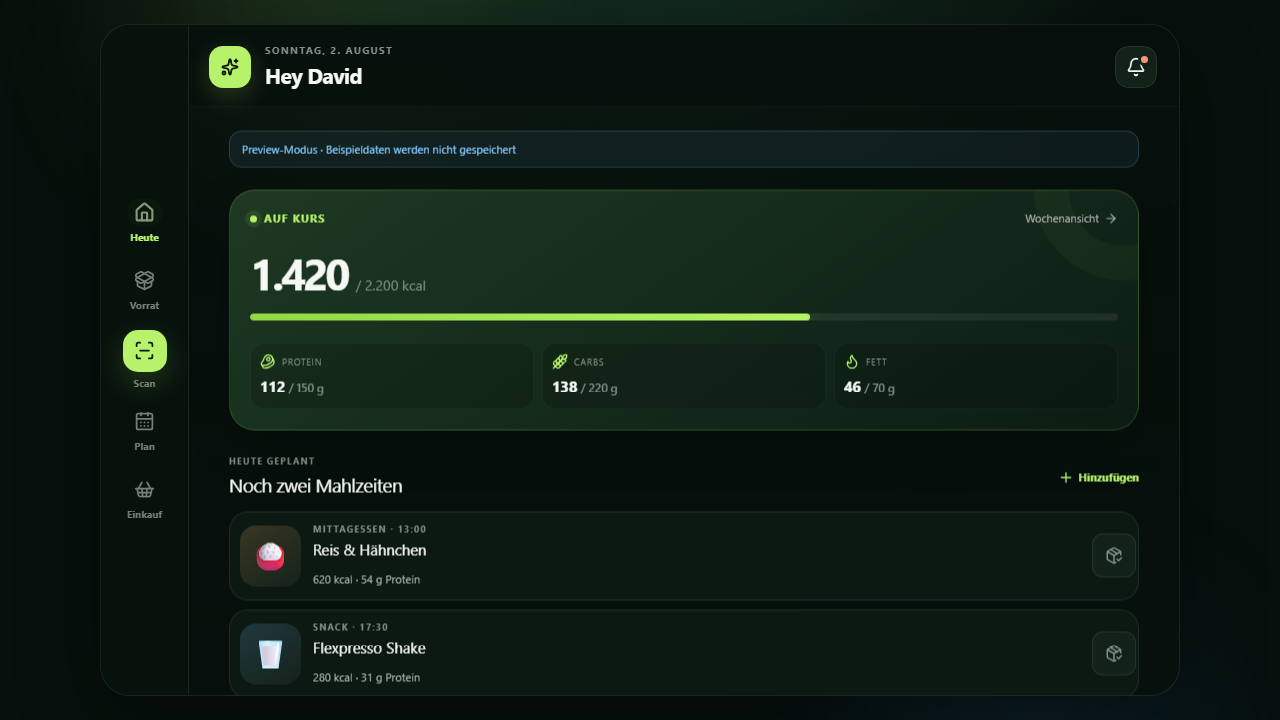
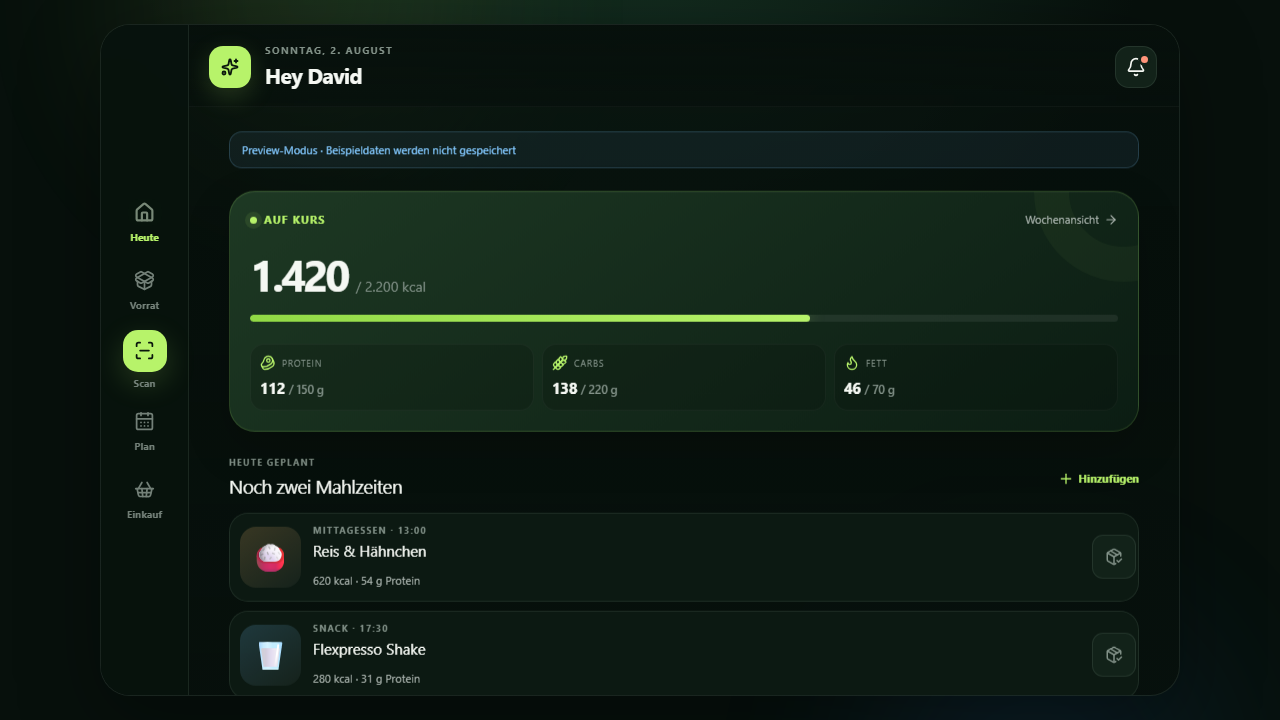
feat: add aal2 data export

diff --git a/src/app/api/account/export/route.ts b/src/app/api/account/export/route.ts
@@ -1,0 +1,99 @@
+import { createSupabaseServerClient } from "@/lib/supabase/server";
+
+export const runtime = "nodejs";
+export const dynamic = "force-dynamic";
+
+const MAX_EXPORT_BYTES = 10 * 1024 * 1024;
+
+interface QueryResult<T> {
+  data: T[] | null;
+  error: { message: string } | null;
+}
+
+async function requiredRows<T>(query: PromiseLike<QueryResult<T>>, label: string): Promise<T[]> {
+  const result = await query;
+  if (result.error) throw new Error(`${label}_query_failed`);
+  return result.data ?? [];
+}
+
+function noStoreJson(body: unknown, status: number): Response {
+  return Response.json(body, {
+    status,
+    headers: { "Cache-Control": "no-store, max-age=0", Pragma: "no-cache" }
+  });
+}
+
+export async function GET(): Promise<Response> {
+  let supabase;
+  try {
+    supabase = await createSupabaseServerClient();
+  } catch {
+    return noStoreJson({ error: "SERVICE_UNAVAILABLE" }, 503);
+  }
+  const [userResult, claimsResult] = await Promise.all([
+    supabase.auth.getUser(),
+    supabase.auth.getClaims()
+  ]);
+  if (userResult.error || !userResult.data.user) return noStoreJson({ error: "AUTHENTICATION_REQUIRED" }, 401);
+  if (claimsResult.error || claimsResult.data?.claims.aal !== "aal2") return noStoreJson({ error: "AAL2_REQUIRED" }, 403);
+
+  const user = userResult.data.user;
+  try {
+    const [profiles, memberships, foodRiskProfiles, foodLogEntries] = await Promise.all([
+      requiredRows(supabase.from("profiles").select("user_id, display_name, locale, timezone, week_starts_on, calorie_target, protein_target_g, calorie_carryover_percent, created_at, updated_at").eq("user_id", user.id), "profiles"),
+      requiredRows(supabase.from("household_members").select("household_id, role, joined_at").eq("user_id", user.id), "memberships"),
+      requiredRows(supabase.from("user_food_risk_profiles").select("id, canonical_key, kind, severity, confirmed_at, created_at").eq("user_id", user.id), "food_risk_profiles"),
+      requiredRows(supabase.from("food_log_entries").select("id, household_id, product_id, batch_id, amount, unit, nutrition_snapshot, eaten_at, client_mutation_id, created_at").eq("user_id", user.id), "food_log_entries")
+    ]);
+    const householdIds = memberships.map((membership) => String(membership.household_id));
+    const [households, products, inventoryBatches, inventoryEvents, recipes, mealPlanSlots, shoppingLists] = householdIds.length ? await Promise.all([
+      requiredRows(supabase.from("households").select("id, name, currency, created_at, updated_at").in("id", householdIds), "households"),
+      requiredRows(supabase.from("products").select("id, household_id, gtin, name, brand, generic_name, package_amount, package_unit, image_url, ingredients_text, source, source_updated_at, data_confidence, user_verified_at, created_at, updated_at").in("household_id", householdIds), "products"),
+      requiredRows(supabase.from("inventory_batches").select("id, household_id, product_id, location, initial_amount, remaining_amount, unit, best_before_date, use_by_date, production_date, frozen_date, opened_at, after_opening_deadline, lot_number, serial_number, purchase_price_cents, purchased_at, date_source, date_confidence, created_at, updated_at").in("household_id", householdIds), "inventory_batches"),
+      requiredRows(supabase.from("inventory_events").select("id, household_id, batch_id, event_type, amount_delta, client_mutation_id, note, occurred_at").eq("user_id", user.id).in("household_id", householdIds), "inventory_events"),
+      requiredRows(supabase.from("recipes").select("id, household_id, name, servings, instructions, is_favorite, created_at, updated_at").in("household_id", householdIds), "recipes"),
+      requiredRows(supabase.from("meal_plan_slots").select("id, household_id, user_id, planned_for, meal_type, recipe_id, product_id, servings, status, sort_order, created_at").eq("user_id", user.id).in("household_id", householdIds), "meal_plan_slots"),
+      requiredRows(supabase.from("shopping_lists").select("id, household_id, week_start, status, predicted_total_cents, created_at, updated_at").in("household_id", householdIds), "shopping_lists")
+    ]) : [[], [], [], [], [], [], []];
+
+    const productIds = products.map((product) => String(product.id));
+    const recipeIds = recipes.map((recipe) => String(recipe.id));
+    const shoppingListIds = shoppingLists.map((list) => String(list.id));
+    const [productNutrition, productMetadata, productIngredients, ingredientAssessments, recipeItems, shoppingItems] = await Promise.all([
+      productIds.length ? requiredRows(supabase.from("product_nutrition").select("product_id, basis_amount, basis_unit, energy_kcal, protein_g, carbohydrates_g, sugars_g, fat_g, saturated_fat_g, fiber_g, salt_g, micronutrients, source, confidence, updated_at").in("product_id", productIds), "product_nutrition") : [],
+      productIds.length ? requiredRows(supabase.from("product_metadata").select("id, product_id, field_key, value_json, source, source_updated_at, confidence, user_verified_at").in("product_id", productIds), "product_metadata") : [],
+      productIds.length ? requiredRows(supabase.from("product_ingredients").select("id, product_id, position, raw_name, normalized_name, e_number, percentage, is_allergen, is_trace, confidence").in("product_id", productIds), "product_ingredients") : [],
+      productIds.length ? requiredRows(supabase.from("ingredient_assessments").select("id, product_id, ingredient_key, level, reason, evidence_url, exposure, confidence, ruleset_version, assessed_at").eq("user_id", user.id).in("product_id", productIds), "ingredient_assessments") : [],
+      recipeIds.length ? requiredRows(supabase.from("recipe_items").select("id, recipe_id, product_id, amount, unit").in("recipe_id", recipeIds), "recipe_items") : [],
+      shoppingListIds.length ? requiredRows(supabase.from("shopping_items").select("id, shopping_list_id, product_id, label, required_amount, unit, package_count, predicted_price_cents, checked_at, source, source_product_id, created_at").in("shopping_list_id", shoppingListIds), "shopping_items") : []
+    ]);
+
+    const exportedAt = new Date().toISOString();
+    const payload = JSON.stringify({
+      exportVersion: 1,
+      exportedAt,
+      identity: { id: user.id, email: user.email ?? null, createdAt: user.created_at, lastSignInAt: user.last_sign_in_at ?? null },
+      data: {
+        profiles, memberships, households, foodRiskProfiles, products, productNutrition,
+        productMetadata, productIngredients, ingredientAssessments, inventoryBatches,
+        inventoryEvents, foodLogEntries, recipes, recipeItems, mealPlanSlots,
+        shoppingLists, shoppingItems
+      }
+    });
+    if (Buffer.byteLength(payload, "utf8") > MAX_EXPORT_BYTES) {
+      return noStoreJson({ error: "EXPORT_TOO_LARGE", message: "Der direkte Export überschreitet 10 MB. Bitte fordere einen sicheren Support-Export an." }, 413);
+    }
+    return new Response(payload, {
+      status: 200,
+      headers: {
+        "Content-Type": "application/json; charset=utf-8",
+        "Content-Disposition": `attachment; filename="foodos-export-${exportedAt.slice(0, 10)}.json"`,
+        "Cache-Control": "no-store, max-age=0",
+        Pragma: "no-cache",
+        "X-Content-Type-Options": "nosniff"
+      }
+    });
+  } catch {
+    return noStoreJson({ error: "EXPORT_FAILED" }, 500);
+  }
+}

diff --git a/e2e-auth/authenticated-core.spec.ts b/e2e-auth/authenticated-core.spec.ts
@@ -23,6 +23,9 @@ test("real local user must enroll TOTP before atomic household onboarding", asyn
   const password = "FoodOS-E2E-Only-2026!";
 
   await page.goto("/");
+  const deniedExport = await page.request.get("/api/account/export");
+  expect(deniedExport.status()).toBe(401);
+  expect(deniedExport.headers()["cache-control"]).toContain("no-store");
   await page.getByRole("tab", { name: "Registrieren" }).click();
   await page.getByLabel("E-Mail-Adresse").fill(email);
   await page.getByLabel("Passwort").fill(password);
@@ -85,4 +88,15 @@ test("real local user must enroll TOTP before atomic household onboarding", asyn
   await expect(page.getByText(/Offline · auf diesem Gerät gespeichert/)).not.toBeVisible({ timeout: 15_000 });
   await page.getByRole("button", { name: "Vorrat", exact: true }).click();
   await expect(page.getByText(/Nutella/i).first()).toBeVisible();
+
+  const exportResponse = await page.request.get("/api/account/export");
+  expect(exportResponse.status()).toBe(200);
+  expect(exportResponse.headers()["cache-control"]).toContain("no-store");
+  expect(exportResponse.headers()["content-disposition"]).toContain("attachment");
+  const exportPayload = await exportResponse.json();
+  expect(exportPayload.exportVersion).toBe(1);
+  expect(exportPayload.identity.email).toBe(email);
+  expect(exportPayload.data.households).toHaveLength(1);
+  expect(exportPayload.data.inventoryBatches).toHaveLength(1);
+  expect(exportPayload.data.products[0].name).toMatch(/Nutella/i);
 });

diff --git a/src/components/food-os-app.tsx b/src/components/food-os-app.tsx
@@ -4,6 +4,7 @@ import { useMemo, useState } from "react";
 import { useRouter } from "next/navigation";
 import { Bell, CalendarDays, Home, PackageOpen, ScanLine, ShoppingBasket, Sparkles } from "lucide-react";
 import { SignOutButton } from "@/features/auth/sign-out-button";
+import { DataExportButton } from "@/features/privacy/data-export-button";
 import type { AppSnapshot, AppView } from "@/lib/types";
 import { TodayView } from "./today-view";
 import { InventoryView } from "./inventory-view";
@@ -51,7 +52,7 @@ export function FoodOsApp({ authenticated = false, preview = false, initialSnaps
             <p>{current.eyebrow}</p>
             <h1>{current.title}</h1>
           </div>
-          {authenticated ? <SignOutButton /> : (
+          {authenticated ? <div className="account-actions"><DataExportButton /><SignOutButton /></div> : (
             <button className="icon-button" aria-label={preview ? "Lokaler Preview-Modus" : "Benachrichtigungen"}>
               <Bell size={20} />
               <span className="notification-dot" />

diff --git a/src/app/globals.css b/src/app/globals.css
@@ -325,6 +325,8 @@ button:focus-visible, input:focus-visible, select:focus-visible, a:focus-visible
 .outbox-status span { display: grid; gap: 2px; color: var(--muted-2); font-size: 10px; line-height: 1.4; }
 .outbox-status strong { color: var(--ink); font-size: 11px; }
 .outbox-status button { justify-self: start; min-height: 32px; border: 1px solid currentColor; border-radius: 9px; margin-top: 5px; padding: 4px 8px; color: var(--warm); background: transparent; cursor: pointer; font-size: 9px; font-weight: 700; }
+.account-actions { margin-left: auto; display: flex; gap: 7px; }
+.account-actions .icon-button { margin-left: 0; text-decoration: none; }
 
 @media (min-width: 720px) {
   .app-canvas { padding: 24px 0; }

diff --git a/e2e/preview-navigation.spec.ts b/e2e/preview-navigation.spec.ts
@@ -34,4 +34,11 @@ test.describe("Q-UX-PRIMARY-ACTION-E2E-001 preview shell", () => {
     });
     expect(result.violations.filter((violation) => ["serious", "critical"].includes(violation.impact ?? ""))).toEqual([]);
   });
+
+  test("fails closed when the export service is not configured", async ({ request }) => {
+    const response = await request.get("/api/account/export");
+    expect(response.status()).toBe(503);
+    expect(response.headers()["cache-control"]).toContain("no-store");
+    await expect(response.json()).resolves.toEqual({ error: "SERVICE_UNAVAILABLE" });
+  });
 });

diff --git a/src/features/privacy/data-export-button.tsx b/src/features/privacy/data-export-button.tsx
@@ -1,0 +1,7 @@
+"use client";
+
+import { Download } from "lucide-react";
+
+export function DataExportButton() {
+  return <a className="icon-button" href="/api/account/export" download aria-label="Meine FoodOS-Daten als JSON exportieren"><Download size={18} /></a>;
+}

diff --git a/docs/TRACEABILITY_MATRIX.md b/docs/TRACEABILITY_MATRIX.md
@@ -36,7 +36,7 @@ converted to an evidence-backed state before the technical audit can close.
 | Versioned local read projection, canonical server revisions, conflict/tombstone UX and multi-device schedules | F08 / C0 | `NOT_IMPLEMENTED` | Outbox records an explicit `baseRevision: null` until the server revision protocol exists | No offline private read projection, field merge, tombstone, removed-member purge, multi-device scheduler or schema-upgrader E2E exists; native launch remains blocked. |
 | Security headers, CSP, Origin/CSRF, rate limits and SSRF controls | Security / C0 | `TESTED` | CSP/HSTS/permissions headers, fixed provider origins, product rate/retry/circuit, constant-time cron bearer | API tests prove missing-config/secret and burst failure; distributed quotas, nonce-based CSP and a complete mutation Origin matrix remain open. |
 | Typed/redacted telemetry, correlation IDs, health/readiness and incident runbooks | Ops / C0 | `NOT_IMPLEMENTED` | Error result type and safe static references only | No OTel adapter/collector, health endpoints, redaction tests or incident runbooks. |
-| Data export and expiring download | F06 / C1 | `NOT_IMPLEMENTED` | Data register specifies contract | No schema/job/UI/integration test. |
+| AAL2 data export without retained download artifact | F06 / C1 | `TESTED` | Explicit field allowlist and RLS-scoped direct JSON attachment in `/api/account/export`; `no-store`, size cap and in-app download control | Real local Auth E2E proves unauthenticated denial and an AAL2 export containing exactly the isolated test household/product/batch; preview E2E proves missing configuration fails closed. Processor exports, correction workflow and the over-10-MB support path remain open. |
 | Account/household deletion, retention jobs and backup tombstones | F06/F08 / C0 | `NOT_IMPLEMENTED` | Data register specifies contract | No schema/job/UI/restore test. |
 | Versioned consent, withdrawal, necessary-only defaults and age gate | F00 / C0 | `NOT_IMPLEMENTED` | Legal register specifies separated purposes | No ledger/UI/network test. |
 | Separately protected Ops/CEO console with real/no-source states | C01–C14 / C0 | `NOT_IMPLEMENTED` | Binding plans and `design-ceo.md` only | No runtime route, RBAC, immutable audit or connected source. |

diff --git a/docs/evidence/LOCAL_VALIDATION_2026-08-02.md b/docs/evidence/LOCAL_VALIDATION_2026-08-02.md
@@ -18,6 +18,7 @@ separate artifact check.
 | Playwright Pixel 7 + Desktop Chrome | `FLAKY` | Initial runs exposed a nameless button, dev-overlay interference and transient fade contrast. After fixes, 4/4 passed; per policy the gate remains flaky until an independent clean artifact. |
 | Real local Auth/TOTP/onboarding E2E | `PASS` | 1/1: registered an isolated local user, proved AAL1 stayed at MFA, enrolled and verified real TOTP, atomically created household/owner/profile, then loaded the AAL2 app. Local DB was reset afterward. |
 | Encrypted offline outbox reconnect E2E | `PASS` | The same real-stack browser flow looked up a product, confirmed a batch while offline, verified one `QUEUED` IndexedDB record exposed no payload/actor/household fields and contained AES-GCM ciphertext with a 12-byte IV, then reconnected and observed the server-accepted batch. |
+| AAL2/RLS data export E2E | `PASS` | Unauthenticated access returned 401 with `no-store`; the AAL2 user received a JSON attachment with exactly one isolated household, product and batch. A no-Supabase preview returned typed 503 instead of a generic server error. |
 | Automated serious/critical axe findings | `PASS on final run` | Zero serious/critical findings on the final Pixel-7 and Desktop-Chrome runs. |
 | Visual screenshots | `REVIEWED_LOCAL` | Fictitious preview screenshots under `docs/evidence/screenshots/`; no authenticated data. |
 | Dependency audit | `PASS` | Final `npm audit --audit-level=high`: 0 vulnerabilities. |
